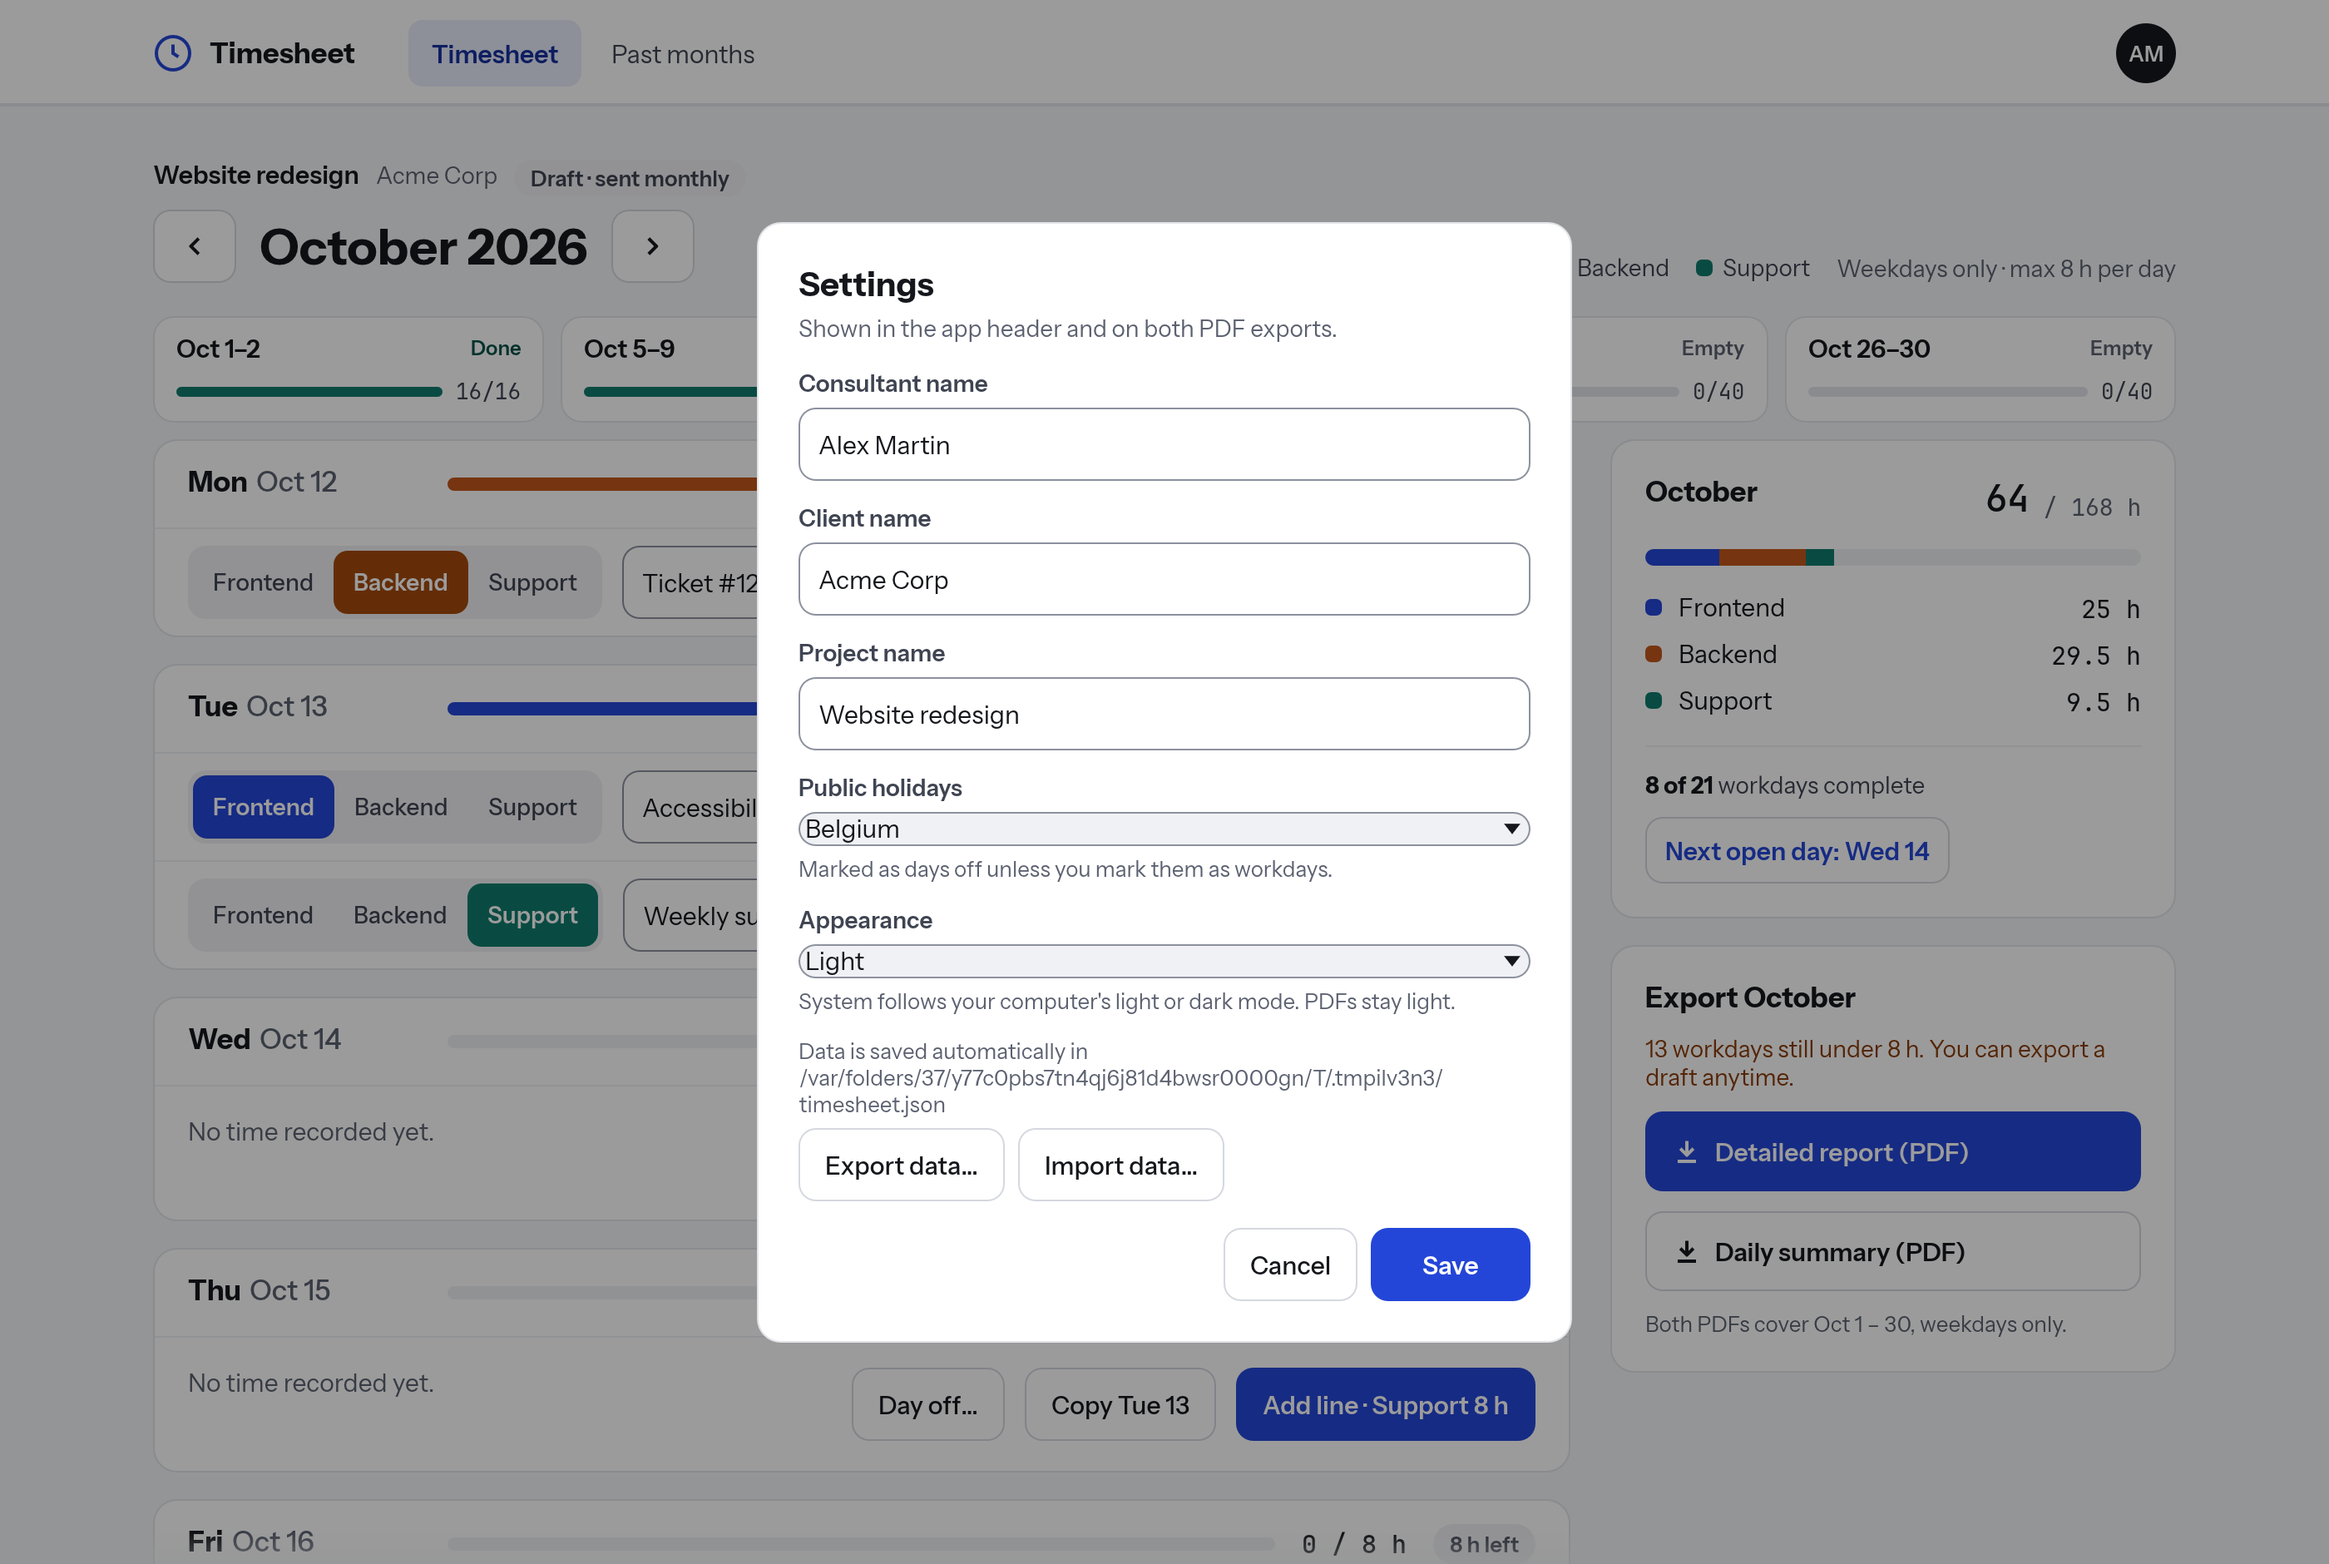
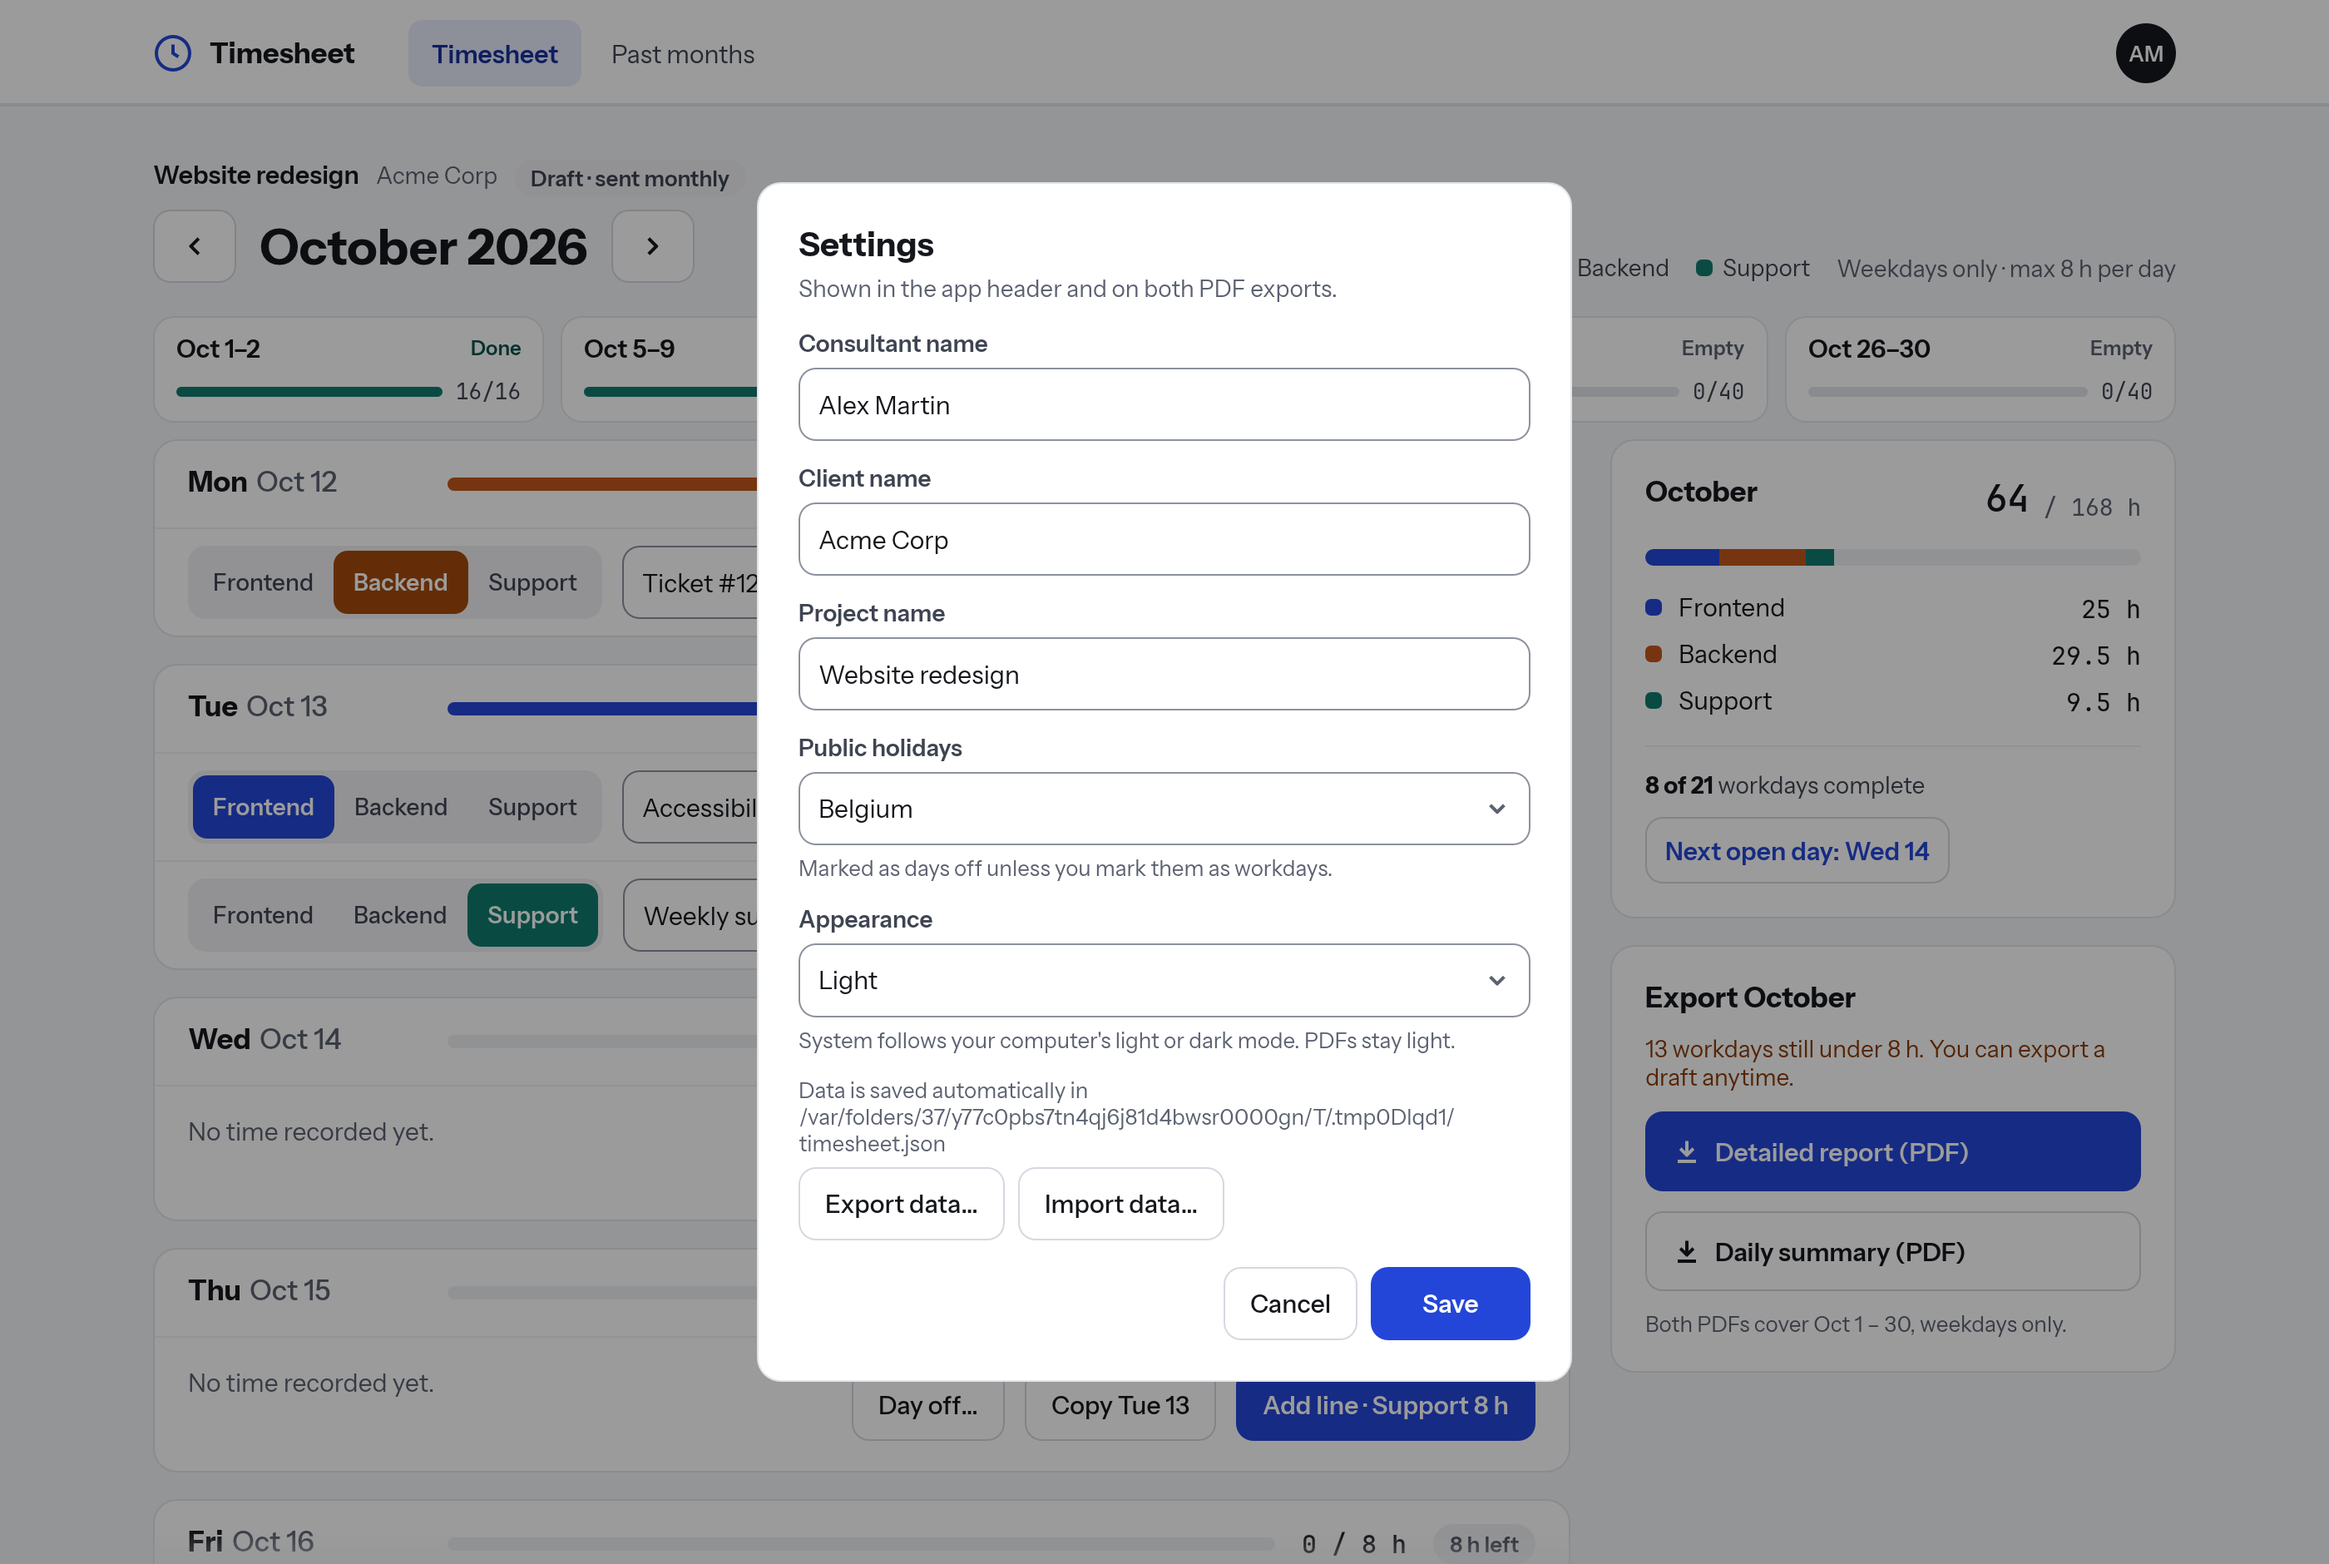
feat(ui): style settings dropdowns like text fields
Add a select_field helper that renders the egui ComboBox at the
44px text-field height with matching radius, padding, fill and a
chevron, and use it for the Public holidays and Appearance settings.

Changed region(s): [[0.3107, 0.0926, 0.6836, 0.5553], [0.3418, 0.5862, 0.6214, 0.7713], [0.3107, 0.7713, 0.6836, 0.8947]]

diff --git a/src/ui/settings.rs b/src/ui/settings.rs
@@ -50,23 +50,14 @@ impl App {
                     ui.add_space(8.0);
                 }
                 text(ui, "Public holidays", sans(14.0, W::SemiBold), c.ink2);
-                let country_label = |c: Option<Country>| c.map_or("None", Country::label);
-                egui::ComboBox::from_id_salt("country")
-                    .selected_text(
-                        egui::RichText::new(country_label(draft.country))
-                            .font(sans(15.0, W::Regular))
-                            .color(c.ink),
-                    )
-                    .width(ui.available_width())
-                    .show_ui(ui, |ui| {
-                        for c in std::iter::once(None).chain(Country::ALL.map(Some)) {
-                            ui.selectable_value(&mut draft.country, c, country_label(c));
-                        }
-                    })
-                    .response
-                    .widget_info(|| {
-                        WidgetInfo::labeled(WidgetType::ComboBox, true, "Public holidays")
-                    });
+                select_field(
+                    ui,
+                    "country",
+                    "Public holidays",
+                    &mut draft.country,
+                    std::iter::once(None).chain(Country::ALL.map(Some)),
+                    |c| c.map_or("None", Country::label),
+                );
                 text(
                     ui,
                     "Marked as days off unless you mark them as workdays.",
@@ -75,20 +66,14 @@ impl App {
                 );
                 ui.add_space(8.0);
                 text(ui, "Appearance", sans(14.0, W::SemiBold), c.ink2);
-                egui::ComboBox::from_id_salt("appearance")
-                    .selected_text(
-                        egui::RichText::new(draft.appearance.label())
-                            .font(sans(15.0, W::Regular))
-                            .color(c.ink),
-                    )
-                    .width(ui.available_width())
-                    .show_ui(ui, |ui| {
-                        for a in Appearance::ALL {
-                            ui.selectable_value(&mut draft.appearance, a, a.label());
-                        }
-                    })
-                    .response
-                    .widget_info(|| WidgetInfo::labeled(WidgetType::ComboBox, true, "Appearance"));
+                select_field(
+                    ui,
+                    "appearance",
+                    "Appearance",
+                    &mut draft.appearance,
+                    Appearance::ALL,
+                    Appearance::label,
+                );
                 text(
                     ui,
                     "System follows your computer's light or dark mode. PDFs stay light.",

diff --git a/src/ui/widgets.rs b/src/ui/widgets.rs
@@ -9,6 +9,7 @@ use super::*;
 pub(super) enum Icon {
     ChevronLeft,
     ChevronRight,
+    ChevronDown,
     Close,
     Plus,
     Download,
@@ -33,6 +34,7 @@ impl Icon {
         match self {
             Icon::ChevronLeft => line(&[(15.0, 6.0), (9.0, 12.0), (15.0, 18.0)]),
             Icon::ChevronRight => line(&[(9.0, 6.0), (15.0, 12.0), (9.0, 18.0)]),
+            Icon::ChevronDown => line(&[(6.0, 9.0), (12.0, 15.0), (18.0, 9.0)]),
             Icon::Close => {
                 line(&[(6.0, 6.0), (18.0, 18.0)]);
                 line(&[(18.0, 6.0), (6.0, 18.0)])
@@ -434,6 +436,50 @@ pub(super) fn date_field(ui: &mut Ui, date: &mut NaiveDate, id_salt: &str, a11y:
         }
         _ => false,
     }
+}
+
+/// Full-width dropdown styled like the 44px settings text fields, with a chevron.
+pub(super) fn select_field<T: Copy + PartialEq>(
+    ui: &mut Ui,
+    id_salt: &str,
+    a11y: &str,
+    value: &mut T,
+    options: impl IntoIterator<Item = T>,
+    label: impl Fn(T) -> &'static str,
+) {
+    const HEIGHT: f32 = 44.0;
+    const CHEVRON: f32 = 16.0;
+    let c = colors(ui);
+    let font = sans(15.0, W::Regular);
+    let row = ui.fonts_mut(|f| f.row_height(&font)).max(CHEVRON);
+    ui.scope(|ui| {
+        let s = ui.spacing_mut();
+        s.interact_size.y = HEIGHT;
+        // ComboBox top-aligns its content, so vertical padding centres it.
+        s.button_padding = vec2(12.0, (HEIGHT - row) / 2.0);
+        s.icon_width = CHEVRON;
+        let focus = ui.visuals().selection.stroke;
+        let w = &mut ui.visuals_mut().widgets;
+        for state in [&mut w.inactive, &mut w.hovered, &mut w.active, &mut w.open] {
+            state.weak_bg_fill = c.surface;
+        }
+        w.open.bg_stroke = focus;
+        let response = egui::ComboBox::from_id_salt(id_salt)
+            .selected_text(egui::RichText::new(label(*value)).font(font).color(c.ink))
+            .width(ui.available_width())
+            .icon(move |ui, rect, _, _| {
+                Icon::ChevronDown.paint(ui.painter(), rect.center(), CHEVRON, c.muted, 2.0);
+            })
+            .show_ui(ui, |ui| {
+                for option in options {
+                    ui.selectable_value(value, option, label(option));
+                }
+            })
+            .response;
+        let radius = ui.visuals().widgets.inactive.corner_radius.nw;
+        focus_ring(ui, &response, response.rect, radius);
+        response.widget_info(|| WidgetInfo::labeled(WidgetType::ComboBox, true, a11y));
+    });
 }
 
 /// CSS-like `flex-wrap` row: each item gets at least its `basis` width and lines share leftover width by `grow`.
